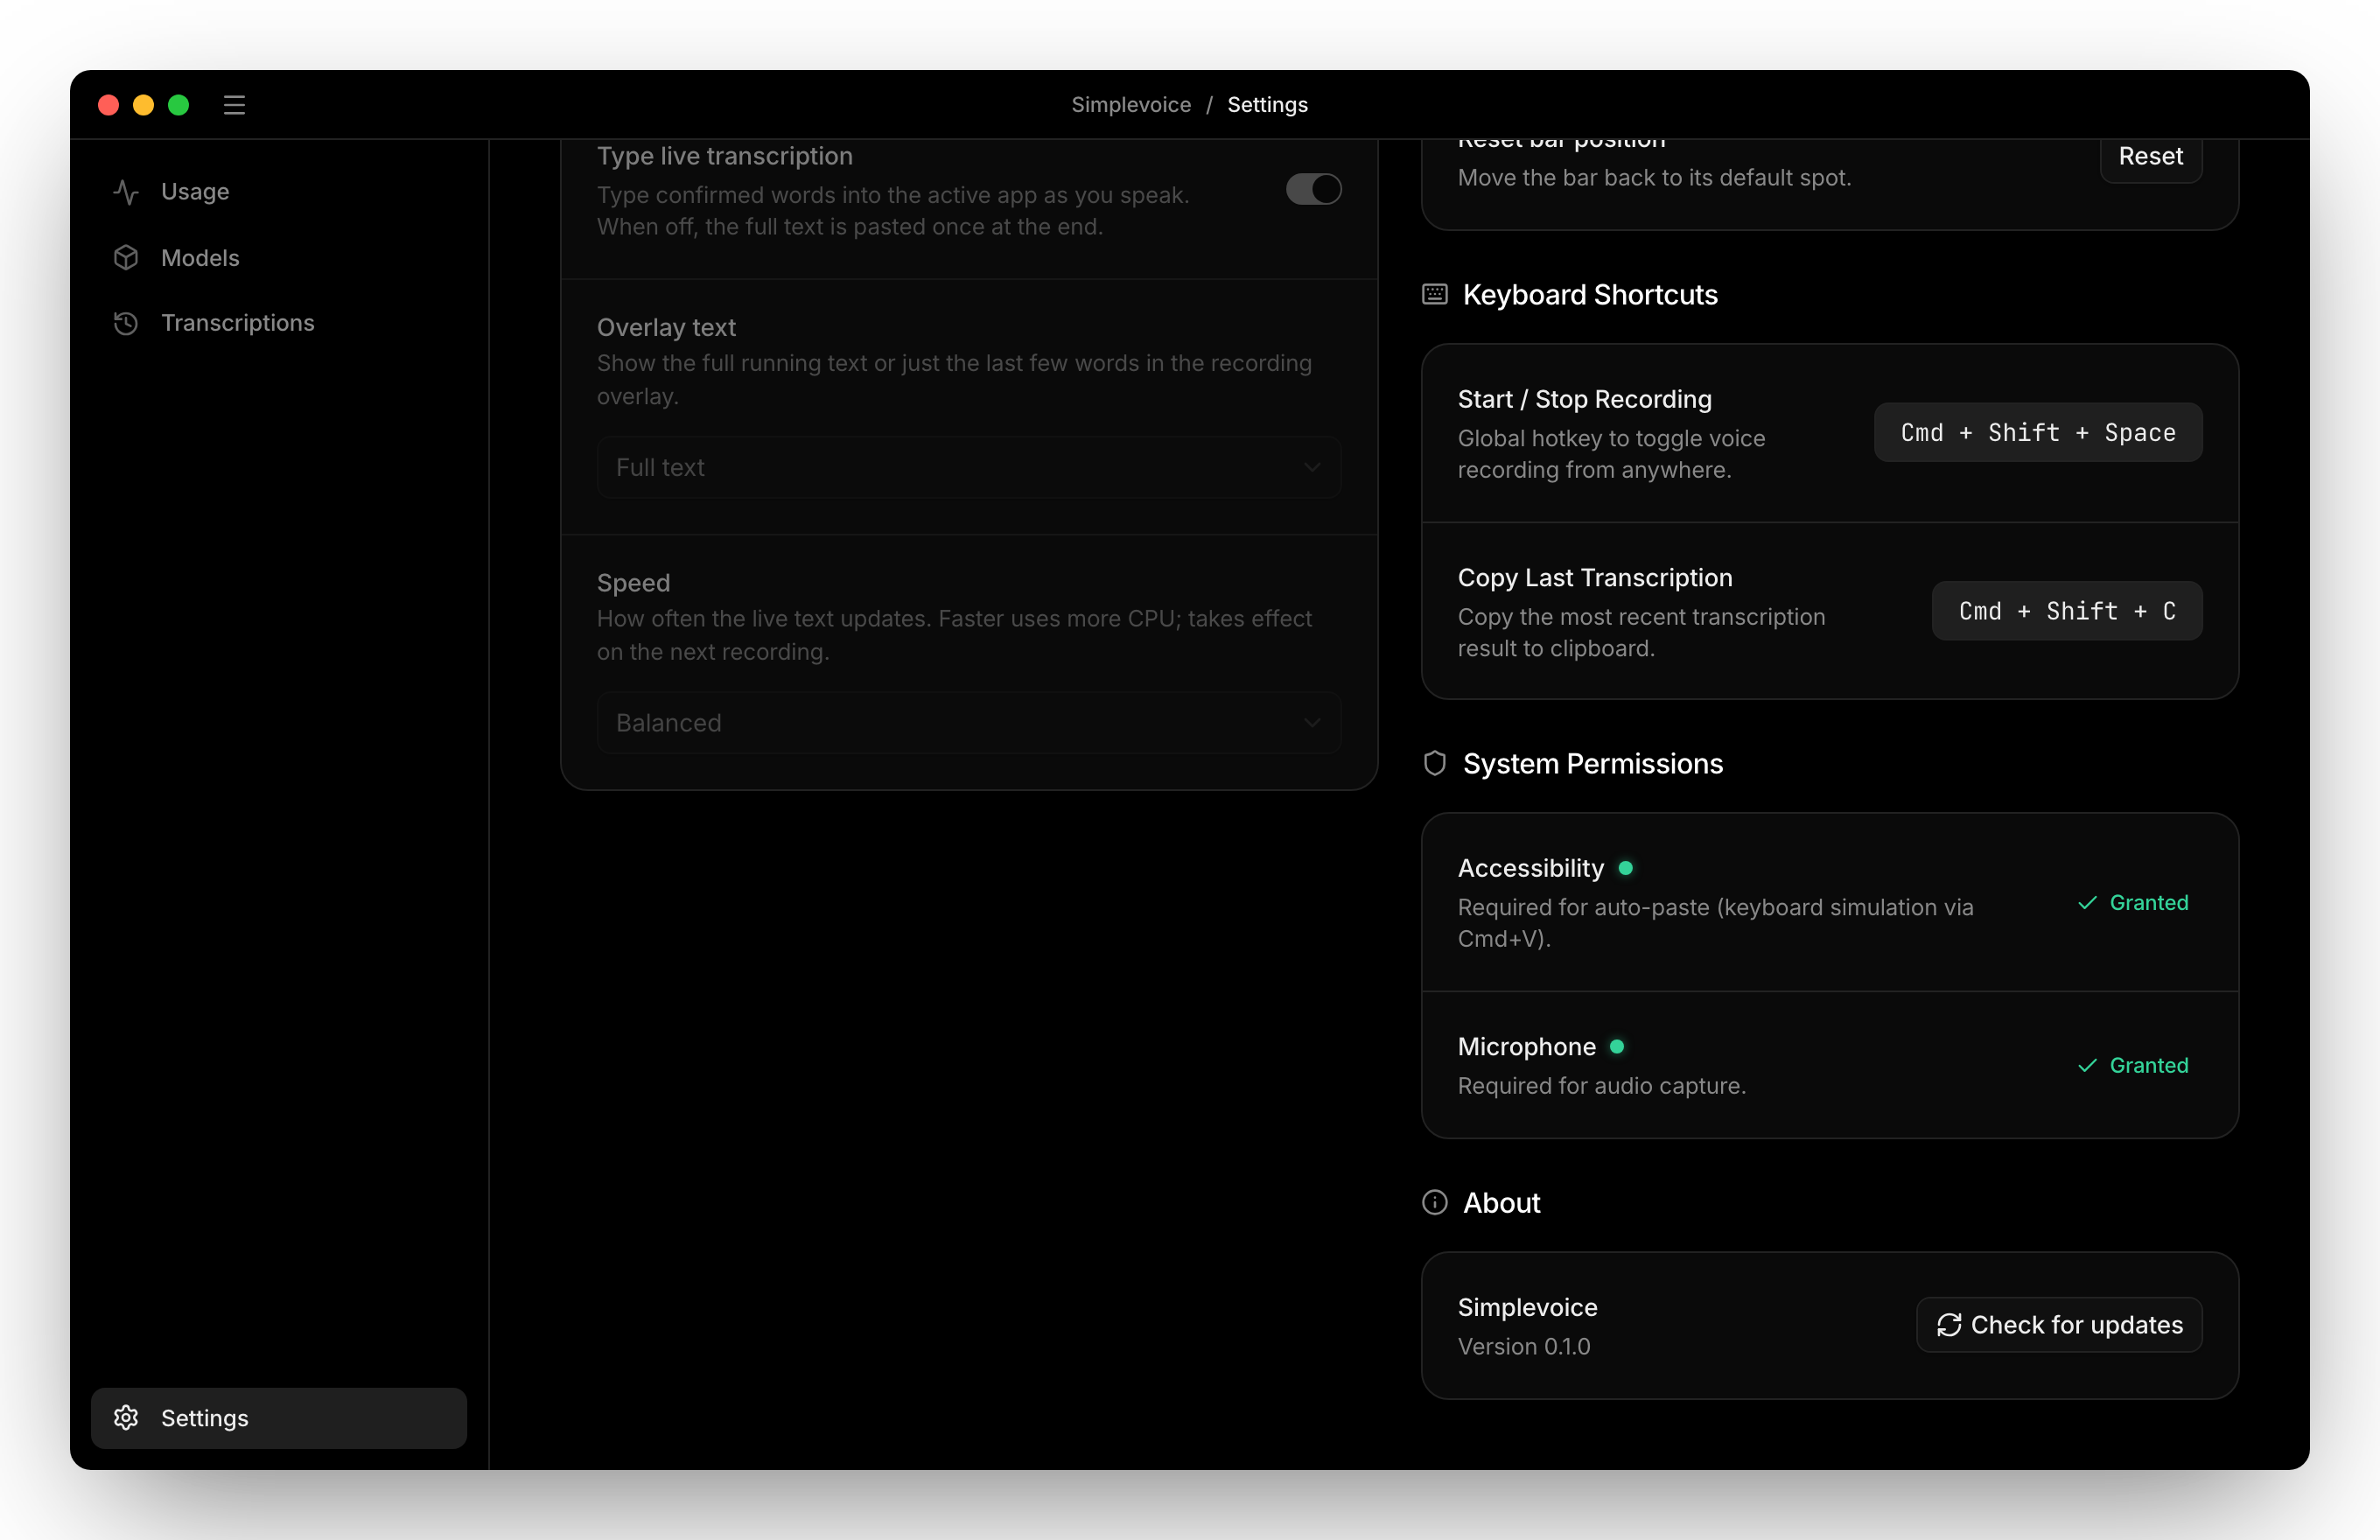
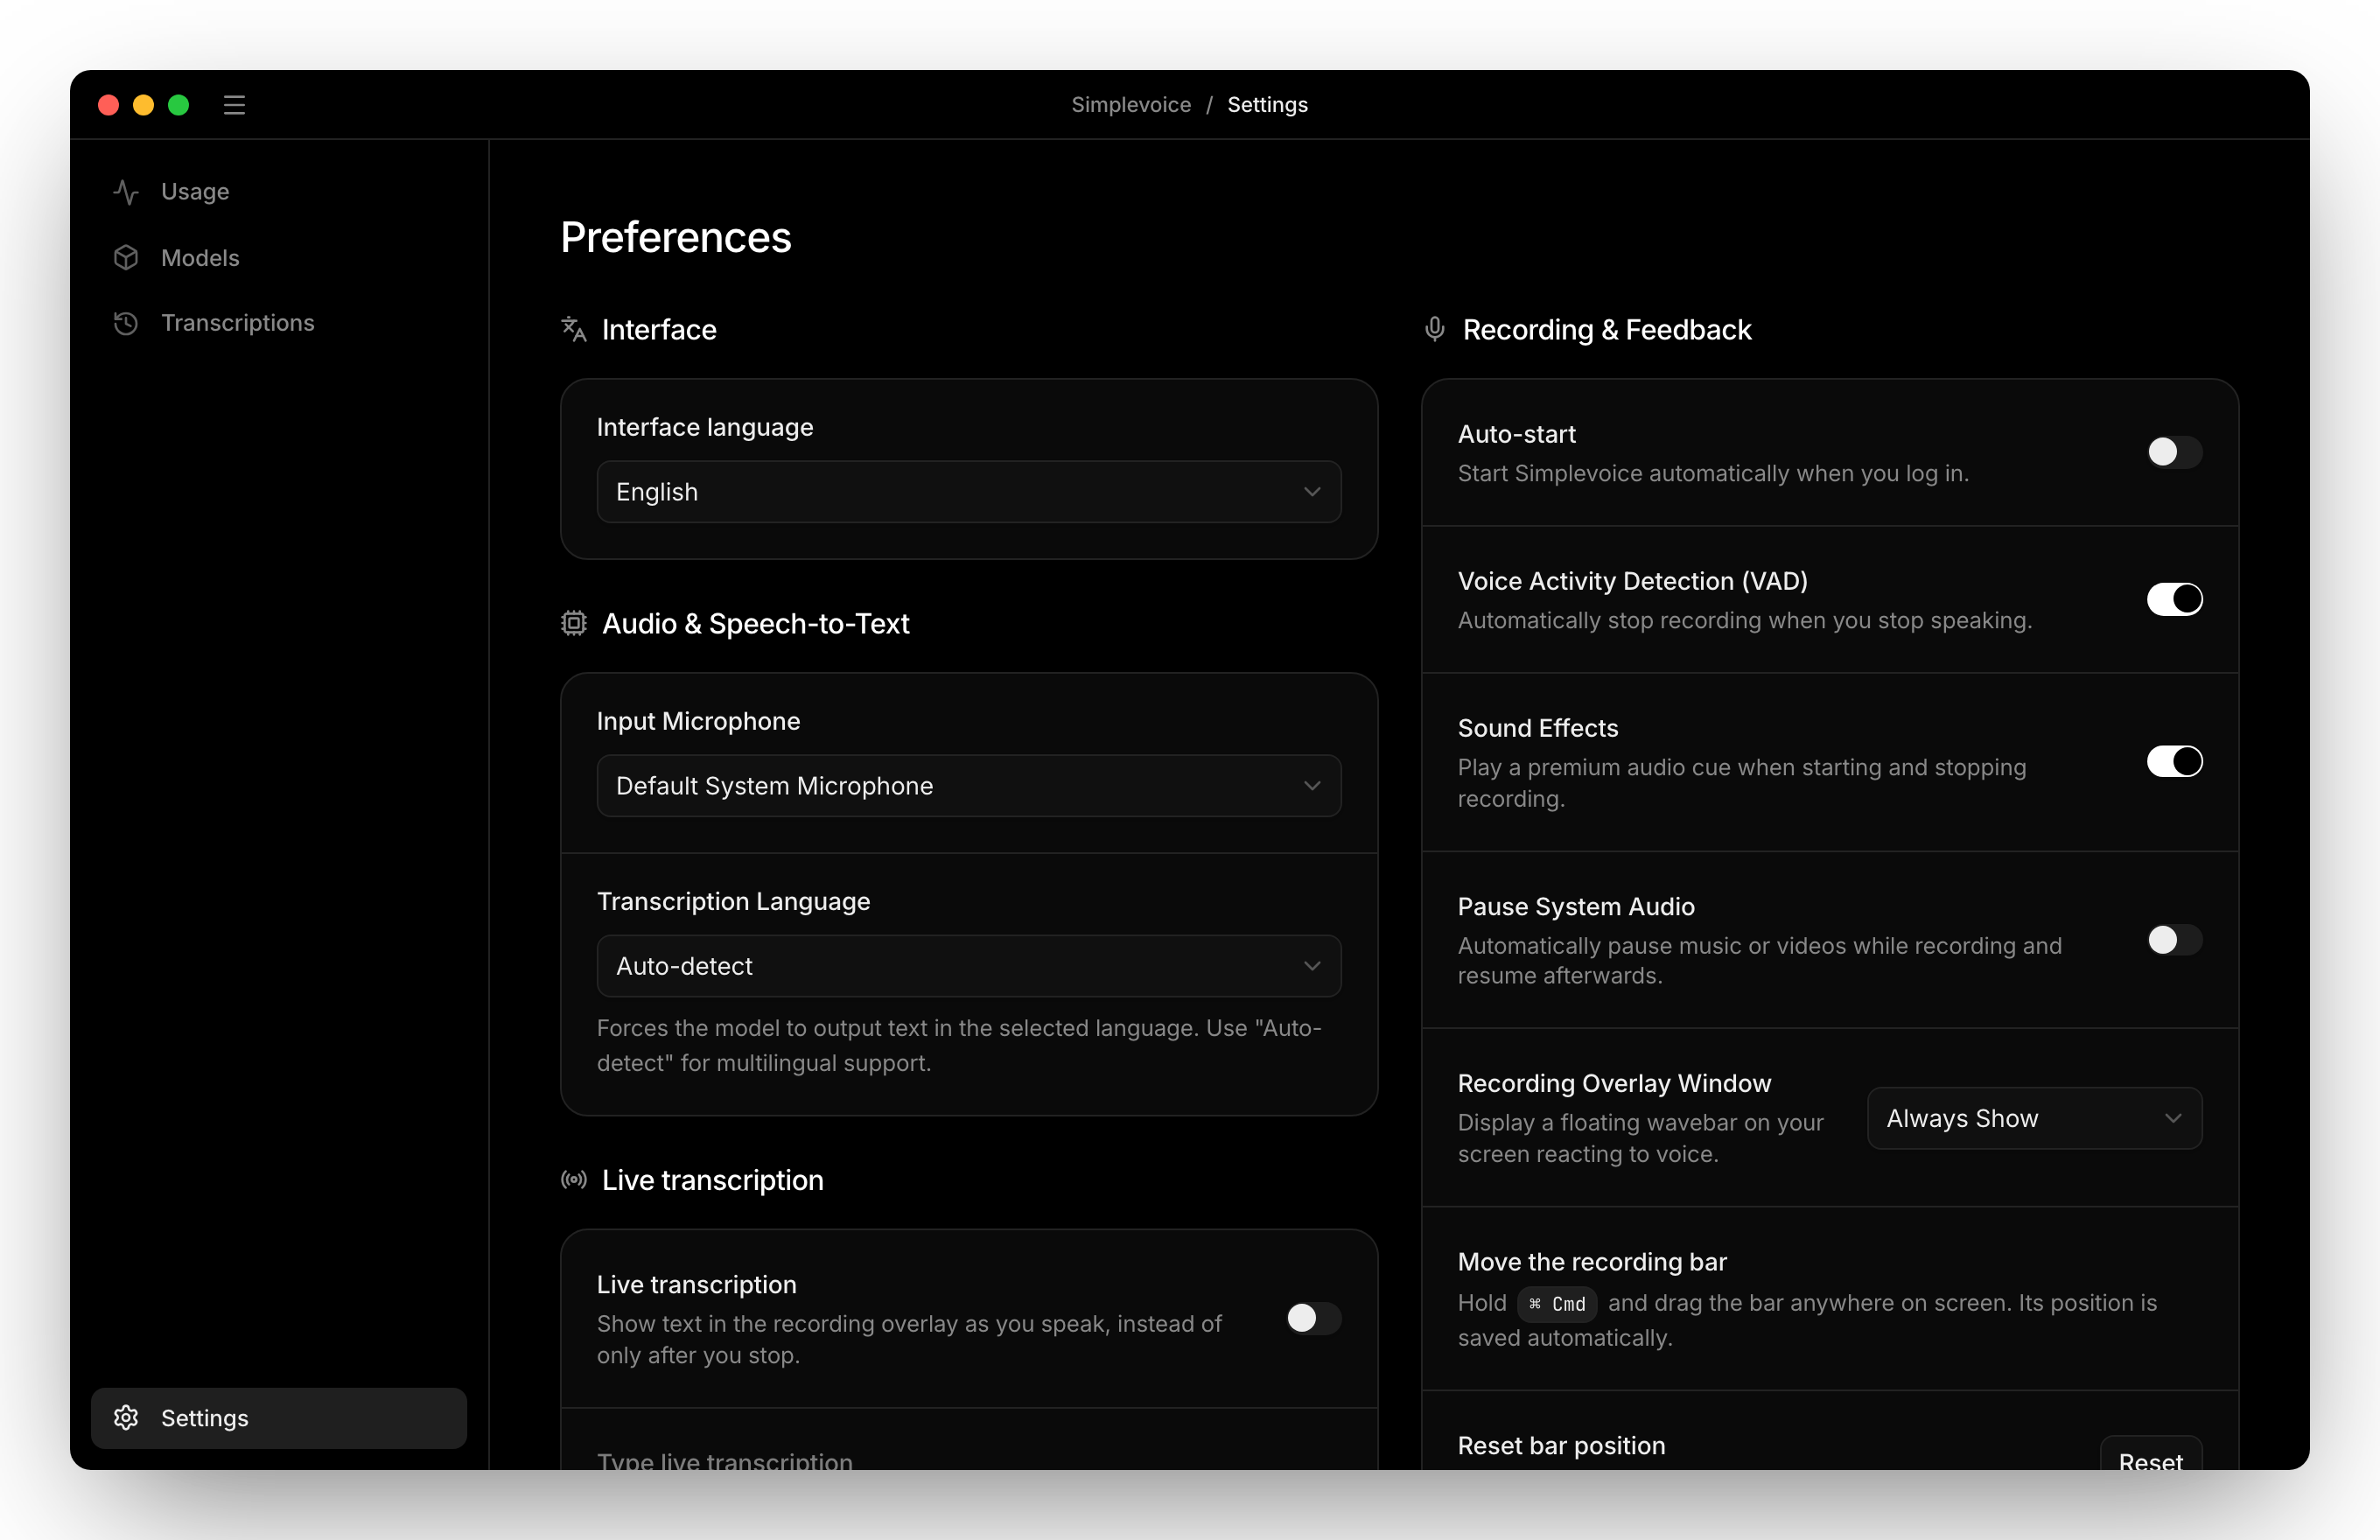
fix(readme-shots): settings captured unscrolled — only crop with no cut rows in the 2-column layout

diff --git a/docs/superpowers/plans/2026-06-12-readme-shots-viewport-fix.md b/docs/superpowers/plans/2026-06-12-readme-shots-viewport-fix.md
@@ -1,0 +1,367 @@
+# README Shots Viewport Fix Implementation Plan
+
+> **For agentic workers:** REQUIRED SUB-SKILL: Use superpowers:subagent-driven-development (recommended) or superpowers:executing-plans to implement this plan task-by-task. Steps use checkbox (`- [ ]`) syntax for tracking.
+
+**Goal:** Fix four README view captures that clip the app's right+bottom ~80 px by re-architecting capture.mjs to use an exact-size viewport (no 100vw/100vh inflation), capture a clean raw PNG per view, then composite window chrome in a separate second-pass frame.html page.
+
+**Architecture:** Two-pass approach: (1) raw capture pass — viewport exactly 1280×800, no injected CSS or #root forced sizing, full-page screenshot → `_raw-${name}.png`; (2) chrome pass — open frame.html (a static HTML file with the window chrome baked in) at 1360×880, load the raw PNG via query param, screenshot full page → final `${name}.png`. Intermediates are deleted after each view; `.gitignore` covers `assets/readme/_*`.
+
+**Tech Stack:** Playwright (chromium), Node.js ESM, pnpm, static frame.html served via `file://`.
+
+**Working directory:** `/Users/woro/Documents/Simple/simplevoice` (branch `feat/readme-screenshots`).
+
+---
+
+## File structure
+
+```
+scripts/readme-shots/
+├── capture.mjs     # MODIFIED: two-pass capture (raw + frame.html chrome)
+└── frame.html      # NEW: static chrome wrapper (window, shadow, traffic dots)
+assets/readme/
+├── _raw-*.png      # intermediates (gitignored, deleted at end of run)
+├── usage.png       # final @2x transparent PNG
+├── models.png
+├── transcriptions.png
+└── settings.png
+```
+
+---
+
+### Task 1: Create `scripts/readme-shots/frame.html`
+
+**Files:**
+- Create: `scripts/readme-shots/frame.html`
+
+- [ ] **Step 1: Write frame.html**
+
+```html
+<!DOCTYPE html>
+<html><head><meta charset="utf-8"><style>
+  html,body{margin:0;padding:0;background:transparent}
+  .pad{padding:40px;display:inline-block}
+  .win{position:relative;border-radius:12px;overflow:hidden;display:block;
+    box-shadow:0 30px 80px -20px rgba(0,0,0,0.55), 0 0 0 1px rgba(255,255,255,0.06)}
+  .win img{display:block;width:1280px;height:800px}
+  .dots{position:absolute;left:16px;top:14px;display:flex;gap:8px}
+  .dots i{width:12px;height:12px;border-radius:50%}
+</style></head><body>
+<div class="pad"><div class="win">
+  <img id="shot" alt="" />
+  <div class="dots"><i style="background:#ff5f57"></i><i style="background:#febc2e"></i><i style="background:#28c840"></i></div>
+</div></div>
+<script>document.getElementById("shot").src = new URLSearchParams(location.search).get("img");</script>
+</body></html>
+```
+
+File path: `/Users/woro/Documents/Simple/simplevoice/scripts/readme-shots/frame.html`
+
+No commit yet — Task 2 modifies capture.mjs and they commit together.
+
+---
+
+### Task 2: Rewrite `captureView` in `capture.mjs` — two-pass architecture
+
+**Files:**
+- Modify: `scripts/readme-shots/capture.mjs`
+
+The current `captureView` function (lines 70–126) does:
+1. Opens a context at 1360×880 (intended to include chrome padding)
+2. Injects CHROME_CSS style tag (body padding + #root shadow/radius)
+3. Forces `#root` width/height to 1280×800 via JS
+4. Calls `addTrafficDots`
+5. Takes a `clip`-based screenshot (clips to 1360×880)
+
+This causes the 100vw/100vh inflation bug: the app sizes itself to the 1360×880 viewport, then #root is forced smaller, clipping the right/bottom.
+
+The fix:
+- **Raw pass**: viewport exactly 1280×800; no CHROME_CSS; no #root sizing; no dots; full-page screenshot → `_raw-${name}.png`
+- **Frame pass**: new context 1360×880; navigate to `file://...frame.html?img=file://..._raw-${name}.png`; wait for img load; full-page screenshot → `${name}.png`; delete `_raw-${name}.png`
+
+- [ ] **Step 1: Replace the full `capture.mjs` with the two-pass version**
+
+Replace the entire file `/Users/woro/Documents/Simple/simplevoice/scripts/readme-shots/capture.mjs` with:
+
+```js
+// Self-contained README capture: boots vite, mocks Tauri IPC, screenshots the
+// real UI with window chrome, writes transparent @2x PNGs to assets/readme/.
+// Two-pass: (1) raw 1280x800 viewport capture, (2) frame.html chrome composite.
+import { chromium } from "playwright";
+import { spawn } from "node:child_process";
+import { mkdirSync, unlinkSync } from "node:fs";
+import { resolve, dirname } from "node:path";
+import { fileURLToPath } from "node:url";
+import { installTauriMock } from "./mock.mjs";
+import { CONFIG, DEVICES, MODELS, PERMISSIONS, transcriptions, usageStats } from "./fixtures.mjs";
+
+const root = resolve(dirname(fileURLToPath(import.meta.url)), "../..");
+const OUT = resolve(root, "assets/readme");
+const FRAME_HTML = resolve(root, "scripts/readme-shots/frame.html");
+const PORT = 5199;
+const URL = `http://localhost:${PORT}`;
+
+const fixtures = {
+  config: CONFIG,
+  permissions: PERMISSIONS,
+  usage: usageStats(),
+  transcriptions: transcriptions(),
+  models: MODELS,
+  devices: DEVICES,
+};
+
+function startVite() {
+  const child = spawn("pnpm", ["exec", "vite", "--port", String(PORT), "--strictPort"], {
+    cwd: root, stdio: ["ignore", "pipe", "pipe"],
+  });
+  return new Promise((res, rej) => {
+    const onData = (d) => {
+      if (String(d).includes("Local:")) res(child);
+    };
+    child.stdout.on("data", onData);
+    child.stderr.on("data", (d) => process.stderr.write(d));
+    child.on("exit", (c) => rej(new Error(`vite exited early (${c})`)));
+    setTimeout(() => rej(new Error("vite start timeout")), 60000);
+  });
+}
+
+async function settle(page) {
+  await page.evaluate(() => document.fonts.ready);
+  await page.waitForTimeout(600); // view fade-in animation (0.3s) + paint
+}
+
+async function captureView(browser, { name, navLabel }) {
+  // --- Pass 1: raw capture at exact app size, no chrome ---
+  const rawPath = resolve(OUT, `_raw-${name}.png`);
+  {
+    const ctx = await browser.newContext({
+      viewport: { width: 1280, height: 800 },
+      deviceScaleFactor: 2,
+    });
+    const page = await ctx.newPage();
+
+    page.on("console", (msg) => {
+      if (msg.type() === "error" || msg.type() === "warn") {
+        process.stderr.write(`[${name}] console.${msg.type()}: ${msg.text()}\n`);
+      }
+    });
+    page.on("pageerror", (err) => {
+      process.stderr.write(`[${name}] pageerror: ${err.message}\n`);
+    });
+
+    await page.addInitScript(installTauriMock, { fixtures, windowLabel: "main" });
+    await page.goto(URL);
+    await settle(page);
+
+    if (navLabel) {
+      await page.getByRole("button", { name: navLabel }).first().click();
+      await settle(page);
+    }
+
+    // Settings: try un-scrolled first; scroll only if Keyboard Shortcuts not visible
+    if (name === "settings") {
+      const shortcutsVisible = await page.evaluate(() => {
+        const el = document.querySelector('[data-tour="shortcuts-section"]');
+        if (!el) return false;
+        const rect = el.getBoundingClientRect();
+        return rect.top >= 0 && rect.bottom <= window.innerHeight;
+      });
+
+      if (!shortcutsVisible) {
+        // Scroll the active view container so Keyboard Shortcuts section is ~60px from top
+        await page.evaluate(() => {
+          const viewEl = document.querySelector(".view.active");
+          const shortcuts = document.querySelector('[data-tour="shortcuts-section"]');
+          if (viewEl && shortcuts) {
+            let el = shortcuts;
+            let top = 0;
+            while (el && el !== viewEl) {
+              top += el.offsetTop;
+              el = el.offsetParent;
+            }
+            viewEl.scrollTop = Math.max(0, top - 60);
+          }
+        });
+        await page.waitForTimeout(200);
+      }
+      // Log which composition was used
+      const usedScroll = !shortcutsVisible;
+      process.stderr.write(`[settings] shortcuts visible without scroll: ${!usedScroll}; used scroll: ${usedScroll}\n`);
+    }
+
+    await page.screenshot({
+      path: rawPath,
+      omitBackground: true,
+      fullPage: false, // viewport-only (1280x800 exact)
+    });
+    console.log(`raw ${name}.png captured`);
+    await ctx.close();
+  }
+
+  // --- Pass 2: chrome composite via frame.html ---
+  {
+    const ctx = await browser.newContext({
+      viewport: { width: 1360, height: 880 },
+      deviceScaleFactor: 2,
+    });
+    const page = await ctx.newPage();
+    const frameUrl = `file://${FRAME_HTML}?img=${encodeURIComponent(`file://${rawPath}`)}`;
+    await page.goto(frameUrl);
+    await page.waitForFunction(
+      () => {
+        const img = document.getElementById("shot");
+        return img && img.complete && img.naturalWidth > 0;
+      },
+      { timeout: 10000 }
+    );
+    await page.screenshot({
+      path: resolve(OUT, `${name}.png`),
+      omitBackground: true,
+      fullPage: true,
+    });
+    console.log(`captured ${name}.png`);
+    await ctx.close();
+  }
+
+  // Clean up intermediate
+  try { unlinkSync(rawPath); } catch {}
+}
+
+mkdirSync(OUT, { recursive: true });
+const vite = await startVite();
+const browser = await chromium.launch();
+try {
+  await captureView(browser, { name: "usage", navLabel: null });
+  await captureView(browser, { name: "models", navLabel: "Models" });
+  await captureView(browser, { name: "transcriptions", navLabel: "Transcriptions" });
+  await captureView(browser, { name: "settings", navLabel: "Settings" });
+} finally {
+  await browser.close();
+  vite.kill("SIGTERM");
+}
+console.log("done");
+```
+
+- [ ] **Step 2: Verify `.gitignore` covers `assets/readme/_*`**
+
+Run: `grep "assets/readme/_" /Users/woro/Documents/Simple/simplevoice/.gitignore`
+
+If no match, append to `.gitignore`:
+```
+assets/readme/_*
+```
+
+---
+
+### Task 3: Run `pnpm shots` and verify output
+
+**Files:** None modified.
+
+- [ ] **Step 1: Run the capture script**
+
+Run from `/Users/woro/Documents/Simple/simplevoice`: `pnpm shots`
+
+Expected console output (in order):
+```
+raw usage.png captured
+captured usage.png
+raw models.png captured
+captured models.png
+raw transcriptions.png captured
+captured transcriptions.png
+raw settings.png captured
+captured settings.png
+done
+```
+
+Expected stderr line for settings: `[settings] shortcuts visible without scroll: true; used scroll: false` OR `... used scroll: true` — either is acceptable; record which.
+
+No `_raw-*.png` files should remain in `assets/readme/` after the run.
+
+- [ ] **Step 2: View and verify `usage.png`**
+
+Open `/Users/woro/Documents/Simple/simplevoice/assets/readme/usage.png`.
+
+Pass criteria:
+- Right edge: Activity legend fully visible (all labels, no truncation); "Active Model" card fully visible including its right edge and content
+- Bottom edge: no clipped rows; the bottom bar of the 7-day chart is complete
+- "Selected" navigation button (left sidebar) is fully rendered, right edge intact
+- Settings nav item visible and NOT clipped at sidebar bottom
+- Traffic dots visible in title bar top-left (red/yellow/green circles)
+- Window has rounded corners and drop-shadow
+- Fonts are crisp (deviceScaleFactor 2 → sharp at displayed size)
+
+- [ ] **Step 3: View and verify `models.png`**
+
+Open `/Users/woro/Documents/Simple/simplevoice/assets/readme/models.png`.
+
+Pass criteria:
+- Right edge of model cards intact (size badges, action buttons fully visible)
+- Settings nav item visible at sidebar bottom, not clipped
+- Active model indicator visible
+- Traffic dots present; rounded corners; sharp fonts
+
+- [ ] **Step 4: View and verify `transcriptions.png`**
+
+Open `/Users/woro/Documents/Simple/simplevoice/assets/readme/transcriptions.png`.
+
+Pass criteria:
+- All 6 transcription rows visible; no row clipped at right or bottom
+- Rightmost column (duration/word-count badges) fully visible
+- Settings nav item visible at sidebar bottom, not clipped
+- Traffic dots present; rounded corners; sharp fonts
+
+- [ ] **Step 5: View and verify `settings.png`**
+
+Open `/Users/woro/Documents/Simple/simplevoice/assets/readme/settings.png`.
+
+Pass criteria:
+- Keyboard Shortcuts section visible (⌘⇧Space / ⌘⇧C shortcuts shown)
+- Right side of settings panel intact (no truncated form controls)
+- Settings nav item highlighted/selected in sidebar; other nav items (Usage, Models, Transcriptions) visible above it
+- Traffic dots present; rounded corners; sharp fonts
+- Record the composition choice: "unscrolled" (shortcuts visible at page load) or "scrolled" (had to scroll into view)
+
+---
+
+### Task 4: Commit
+
+**Files:** All modified files.
+
+- [ ] **Step 1: Stage and commit**
+
+```bash
+git add scripts/readme-shots/capture.mjs scripts/readme-shots/frame.html assets/readme/usage.png assets/readme/models.png assets/readme/transcriptions.png assets/readme/settings.png
+```
+
+If `.gitignore` was modified: also `git add .gitignore`
+
+```bash
+git commit -m "fix(readme-shots): exact-size viewport + second-pass window chrome (no more 100vw clipping)"
+```
+
+Expected: commit succeeds; `git log --oneline -1` shows the commit SHA.
+
+---
+
+## Self-review
+
+**Spec coverage:**
+1. captureView viewport changed to exact 1280×800 — Task 2 ✓
+2. DELETE CHROME_CSS style tag — Task 2 ✓ (removed from new code)
+3. DELETE #root forced sizing — Task 2 ✓ (removed from new code)
+4. DELETE addTrafficDots from raw pass — Task 2 ✓ (removed from new code)
+5. Full-page screenshot to `_raw-${name}.png` — Task 2 ✓
+6. New `frame.html` chrome wrapper — Task 1 ✓
+7. Frame context 1360×880 dpr 2 — Task 2 ✓
+8. `waitForFunction` for img load — Task 2 ✓
+9. Full-page screenshot → `${name}.png` — Task 2 ✓
+10. Delete `_raw-*.png` intermediates — Task 2 ✓
+11. `.gitignore` covers `assets/readme/_*` — Task 2 Step 2 ✓
+12. Settings: try unscrolled, scroll only if shortcuts not visible — Task 2 ✓
+13. Report settings composition choice — Task 3 Step 5 ✓
+14. View all four PNGs and verify — Task 3 ✓
+15. Commit with exact message — Task 4 ✓
+
+**Placeholder scan:** No TODOs, no "implement later", no vague steps. All code is complete.
+
+**Type consistency:** `unlinkSync` imported alongside `mkdirSync` from `node:fs` — consistent throughout. `installTauriMock` signature unchanged from `mock.mjs`. Fixture exports unchanged.